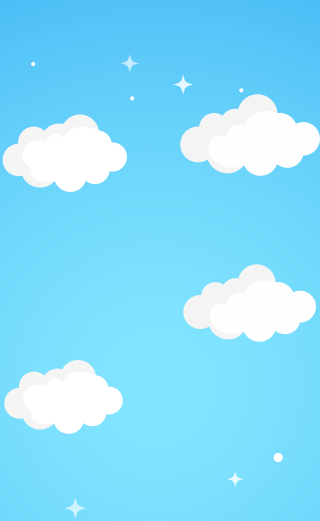
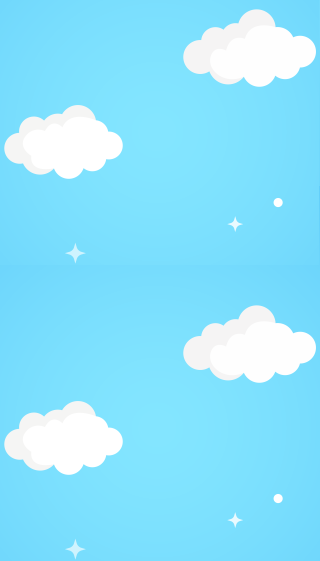
04/12/2020

diff --git a/src/App.js b/src/App.js
@@ -1,48 +1,27 @@
 import './App.css';
-import balloon from "./img/Balloon_0.png";
 import { BrowserRouter as Router, Switch, Route } from "react-router-dom";
 import Game from './Components/Game';
-import Test from './Components/Test';
+import MainScreen from './Components/MainScreen';
 
 function App() {
   return (
-    
-      <Router>
-        <Switch>
 
-          <Route path="/home">
-          <div className="bg top">
-            <Game />
+    <Router>
+      <Switch>
+
+        <Route path="/home">
+          <div className="cloud__class">
+            <div className="bg top">
+              <Game />
+            </div>
           </div>
-          </Route>
-          <Route path="/test">
-            <Test />
-          </Route>
+        </Route>
 
-          <Route path="/">
-          <div className="app-bg top">
-            <div className="App">
-              <div className="wel__text">
-                <div className="animated-title">
-                  <div className="text-top">
-                    <div className="text-center ml-3 mr-3" style={{ fontWeight: "600" }}>
-                      Welcome to hangman !<br />
-                      Click to begin !
-                    </div>
-                  </div>
-                </div>
-              </div>
-              <div className="balloon btn-square">
-                <img src={balloon} className="img-fluid" height="490px" width="240px" alt="img not found" />
-              </div>
-              <div id="buttonContainer">
-                <div id="sp"><a href="home">Start</a></div>
-              </div>
-            </div>
-            </div>
-          </Route>
-        </Switch>
-      </Router>
+        <Route path="/">
+          <MainScreen />
+        </Route>
+      </Switch>
+    </Router>
 
   );
 }

diff --git a/src/Components/Game.js b/src/Components/Game.js
@@ -5,6 +5,8 @@ import won from "../img/original.gif";
 import lost from "../img/tenor.gif";
 import Rodal from 'rodal';
 import 'rodal/lib/rodal.css';
+import green from "../img/circle_green.png";
+import red from "../img/circle_red.png";
 
 import step0 from '../img/0.png';
 import step1 from '../img/1.png';
@@ -115,8 +117,8 @@ class Game extends Component {
                 <div className="Hangman container">
                     <h2 className="questionBox"><div>Guess The Phrase ? </div></h2>
                     <div className="score" style={{display:"flex"}}>
-                        <div style={{background:"white",borderRadius:"25px",width:"100px", marginRight:"auto"}}> Wrong:{this.state.mistake}</div>
-                        <div style={{background:"white",borderRadius:"25px",width:"100px", marginLeft:"auto"}}>Total:{this.props.maxWrong} </div>
+                        <div style={{borderRadius:"25px",width:"100px", marginRight:"auto",backgroundImage:{green}}}> Wrong:{this.state.mistake}</div>
+                        <div style={{borderRadius:"25px",width:"100px", marginLeft:"auto",backgroundImage:{red}}}>Total:{this.props.maxWrong} </div>
                     </div>
                     <div className="maingrid ">
                         <div className="center justify-content-center align-items-center">

diff --git a/src/Components/MainScreen.js b/src/Components/MainScreen.js
@@ -1,0 +1,30 @@
+import React from 'react'
+import "./MainScreen.css"
+import balloon from "../img/Balloon_0.png";
+
+export default function MainScreen() {
+    return (
+        <div>
+            <div className="app-bg top">
+                <div className="App">
+                    <div className="wel__text">
+                        <div className="animated-title">
+                            <div className="text-top">
+                                <div className="text-center ml-3 mr-3" style={{ fontWeight: "600" }}>
+                                    Welcome to hangman !<br />
+                      Click to begin !
+                    </div>
+                            </div>
+                        </div>
+                    </div>
+                    <div className="balloon btn-square">
+                        <img src={balloon} className="img-fluid" height="490px" width="240px" alt="img not found" />
+                    </div>
+                    <div id="buttonContainer">
+                        <div id="sp"><a href="home">Start</a></div>
+                    </div>
+                </div>
+            </div>
+        </div>
+    )
+}

diff --git a/src/index.css b/src/index.css
@@ -8,7 +8,7 @@ body {
   font-family: sans-serif;
   height: 100vh;
   width: 100vw;
-  background: url("./img/mobilebgsky.png") 0 0;
+  /* background: url("./img/mobilebgsky.png") 0 0; */
   text-align: center;
   background-size: contain;
 }

diff --git a/src/App.css b/src/App.css
@@ -201,3 +201,13 @@
   }
 }
 
+.cloud__class{
+  background: url("./img/mobilebgsky.png");
+  animation: slide 8s linear infinite;
+}
+
+
+@keyframes slide {
+  from { background-position: 0 0; }
+  to { background-position: 0 600px; }
+}
